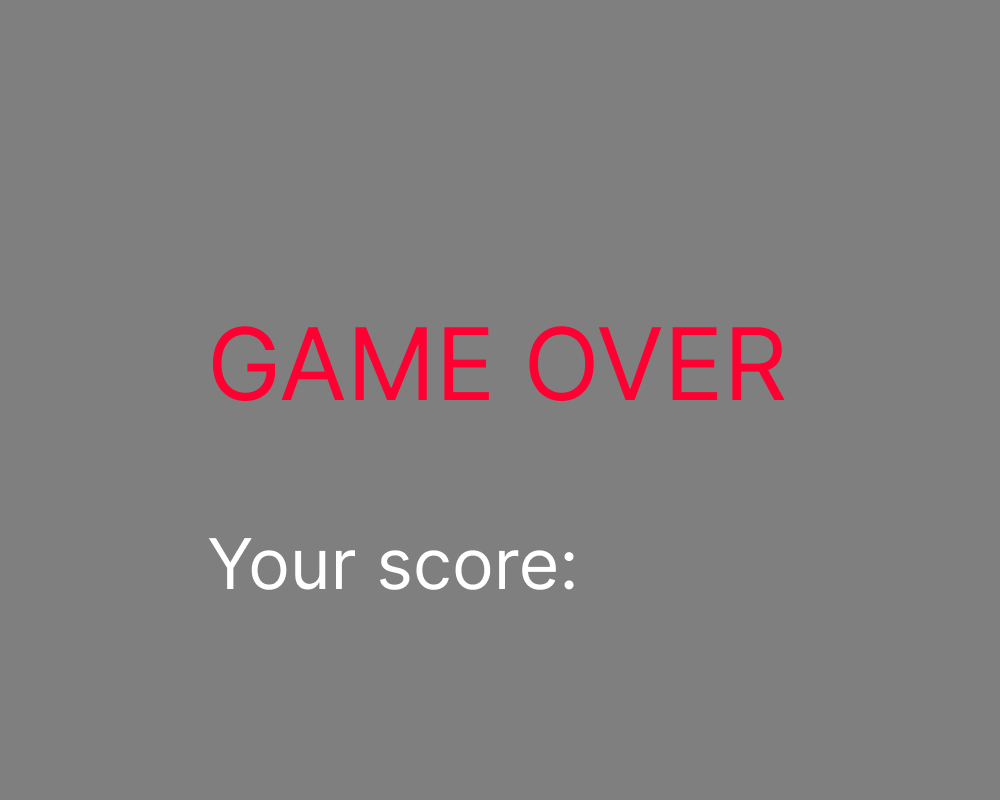
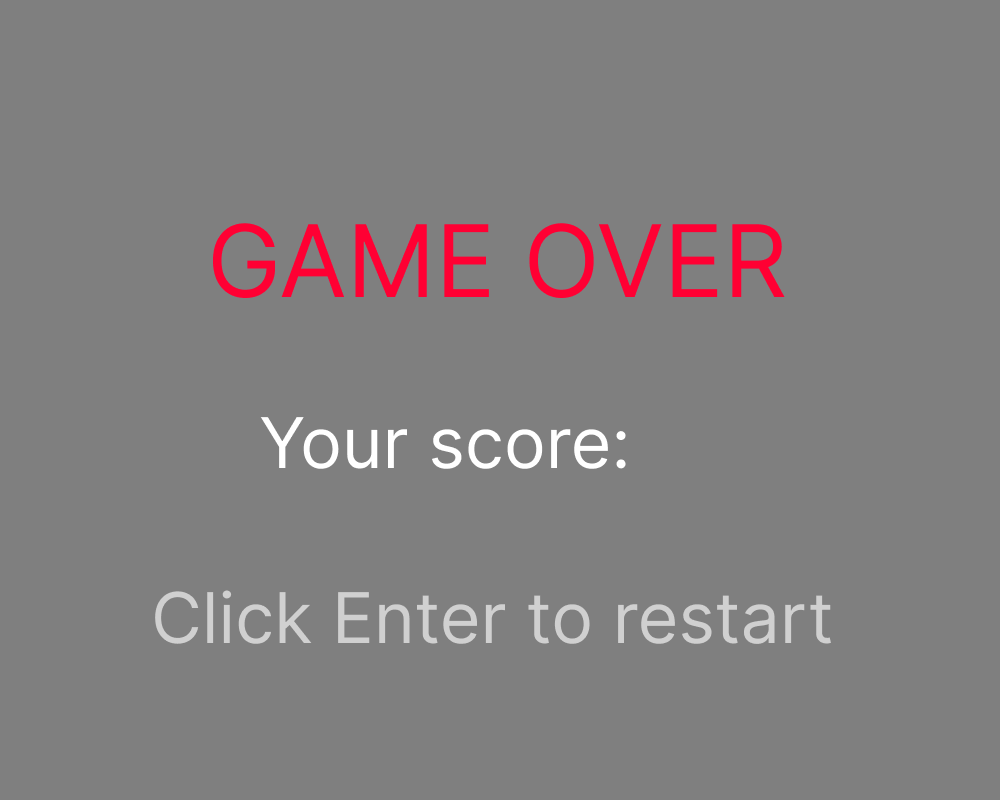
change end game screen

diff --git a/src/game/game.h b/src/game/game.h
@@ -51,7 +51,7 @@ void drawScoreEndGame(sf::RenderWindow &window, Game &game)
 {
     std::ostringstream oss;
     oss << "" << game.score;
-    game.scorePosition = {600, 521};
+    game.scorePosition = {660, 400};
     game.scoreText.setCharacterSize(70);
     game.scoreText.setFillColor(sf::Color::White);
     game.scoreText.setPosition(game.scorePosition);
